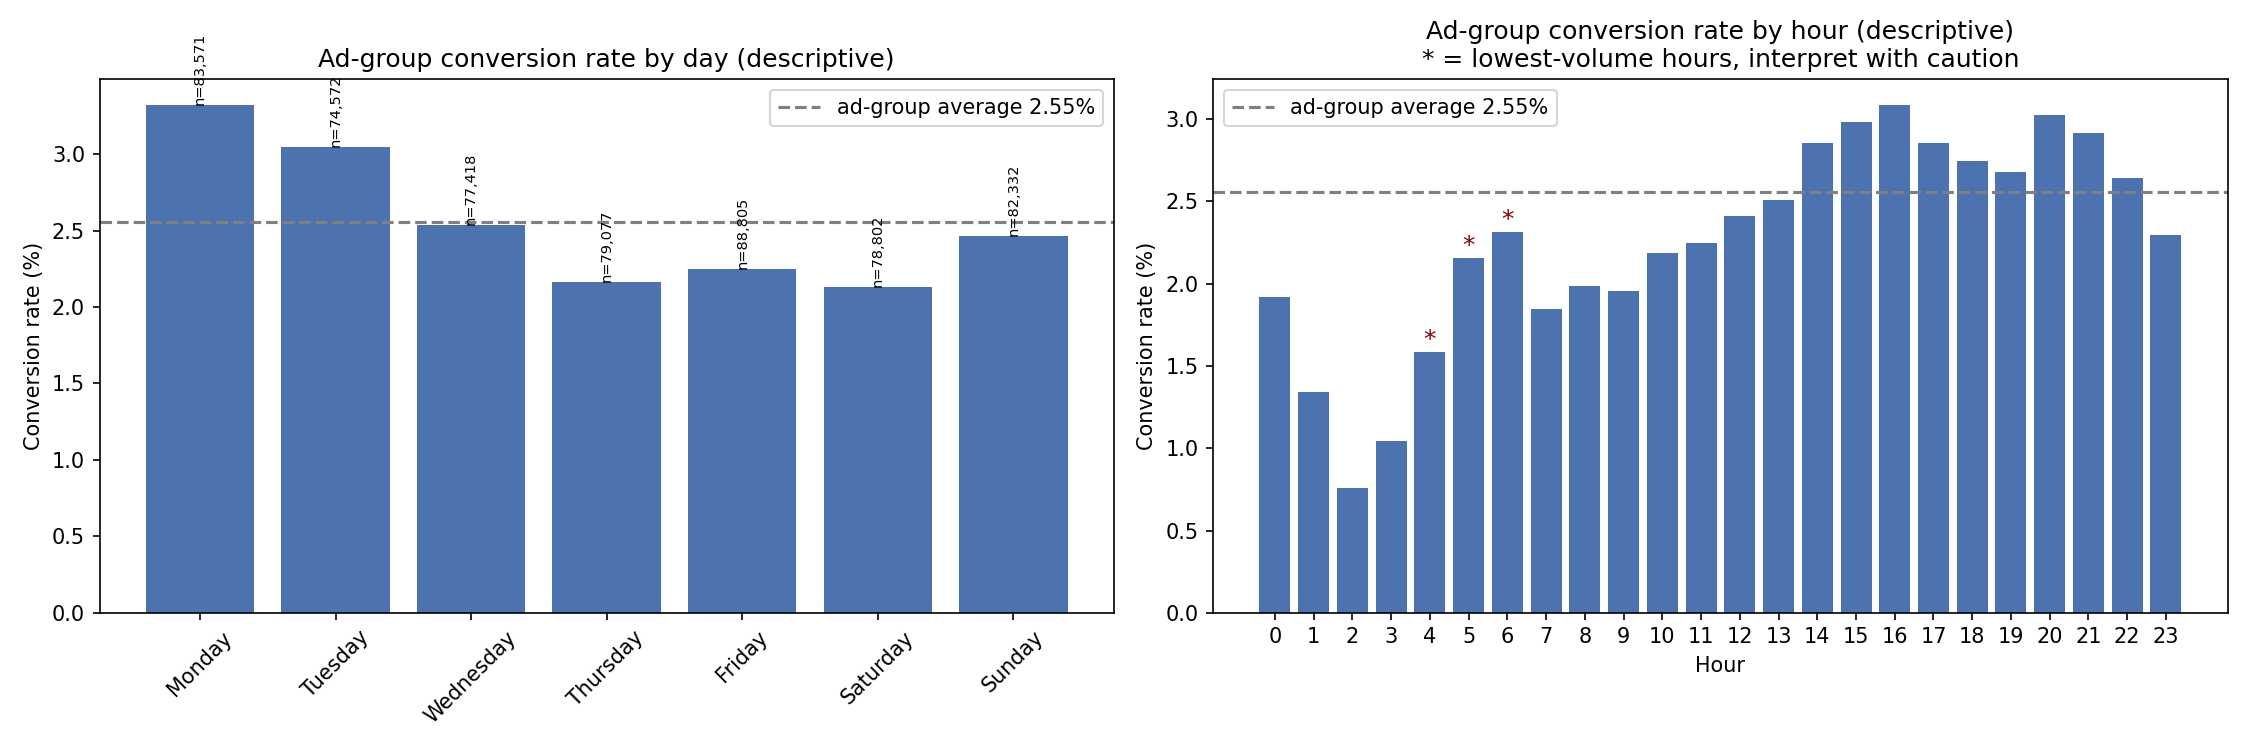
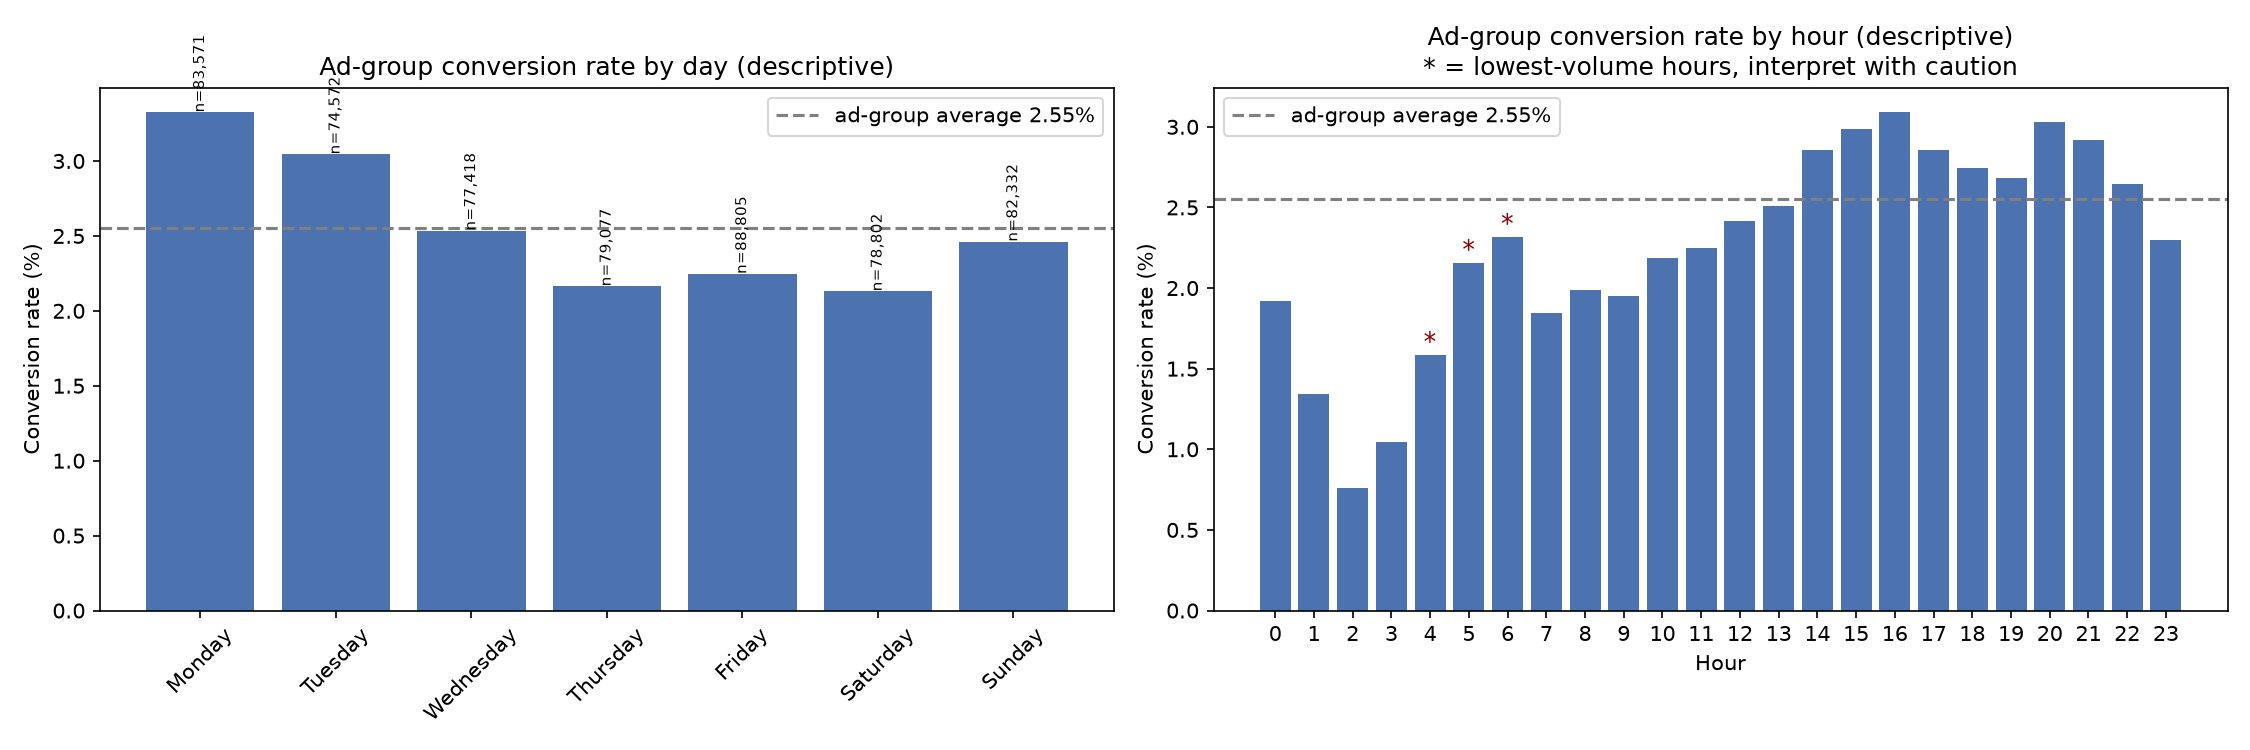
analysis: bootstrap the standardized CI, write figures where the report reads them
The analytic SE conditions on the observed PSA day x hour weights as fixed,
though they are estimated from 23,524 users across 168 cells. A 10,000-replicate
bootstrap that resamples them gives [0.5991, 0.9495] pp against the analytic
[0.6023, 0.9510] pp. The analytic interval stays primary, since the 0.003 pp
difference at the lower bound changes no ROI cell's sign, but the assumption is
now stated in the report, the log, and the notebook rather than left implicit.

Figures now save to reports/figures/ instead of the ignored outputs/, so the
committed images are produced by the committed pipeline rather than copied by
hand. The outputs/ directory and its ignore rule go with it.

diff --git a/reports/analysis_log.md b/reports/analysis_log.md
@@ -31,6 +31,15 @@ topline lift (0.7692 pp) — the opposite of what was expected going in.
 users per arm for a 0.50 pp MDE was corrected to the actual formal calculation:
 17,083 per arm (34,167 total, power 0.80, alpha 0.05, two-sided).
 
+**Standardized CI initially assumed the reference weights were fixed.** The
+analytic SE for the standardized lift summed weighted cell-level binomial
+variance plus the PSA rate variance, which conditions on the PSA day x hour
+weights as known. They are estimated from 23,524 users over 168 cells. A
+10,000-replicate bootstrap that resamples the weights gives [0.5991, 0.9495] pp
+against the analytic [0.6023, 0.9510] pp. The analytic interval was kept as
+primary — the gap is 0.003 pp at the lower bound and changes no ROI cell's sign —
+and the assumption is now stated rather than left implicit.
+
 **Thin-cell flag was insufficient for segment ranking.** The `thin` flag was
 defined against PSA reference weight during the standardization diagnostics, then
 reused for ad-group segment ranking. It does not transfer: Saturday 06:00
@@ -54,6 +63,7 @@ highest-weight cells (a 4.2x larger shift) separated the two.
 | "The PSA group is only 4% of the sample, is it stable?" | CI width 0.338 pp against a 0.769 pp gap. Stable enough for this comparison, though far less precise. |
 | "p = 4.85e-48 on day looks alarming." | Cramer's V is 0.0200. The association is negligible in magnitude and detectable only because of sample size. |
 | "Missing PSA rows in some hours?" | Zero hours lack PSA rows. Share ratio ranges 0.744 to 1.145 with no value near zero. |
+| "Does the standardized CI account for uncertainty in the reference weights?" | No — the analytic SE treats them as fixed. The bootstrap that resamples them is reported alongside: [0.5991, 0.9495] pp against [0.6023, 0.9510] pp. |
 | "43% relative lift seems too large." | Stated as a reason for scepticism rather than celebration, and the reason the cost scenario was run at all. |
 | "Best-performing slot is 5.68%, why not target it?" | That cell holds 5 conversions from 88 impressions. Rankings are filtered to n >= 500. |
 

diff --git a/reports/report.md b/reports/report.md
@@ -148,6 +148,7 @@ distribution was reweighted to the PSA group's via direct standardization.
 | Leave-one-out, 28 thin cells only        | max swing 0.00279 pp                          |
 | Excluding all thin cells (1.067% weight) | 0.7934 pp                                     |
 | Excluding 28 highest-weight cells        | 0.7066 pp                                     |
+| Bootstrap CI, reference weights resampled | [0.5991, 0.9495] pp vs analytic [0.6023, 0.9510] |
 
 The all-cell leave-one-out swing exceeds the standardization change itself, so it
 required explanation rather than reporting alone. Restricting the test to thin
@@ -157,6 +158,14 @@ highest-weight cells (a 4.2x larger shift) separated the two.
 Every specification lands between 0.7066 pp and 0.7934 pp, all inside the primary
 confidence interval and all far from zero. Standardized relative lift: 43.50%,
 consistent with the raw result (43.09%).
+
+The reported interval comes from an analytic SE that conditions on the observed
+PSA weights as fixed. Those weights are themselves estimated, from 23,524 users
+across 168 cells. A 10,000-replicate bootstrap that resamples them gives
+[0.5991, 0.9495] pp, wider by 0.003 pp at the lower bound. The analytic interval
+is kept as primary because the difference does not reach any decision threshold
+in this report, and the bootstrap is reported so the assumption is visible rather
+than implicit.
 
 ### Randomization diagnostics
 
@@ -217,6 +226,9 @@ The unfiltered top cell (Saturday 05:00, 5.68%) rests on 5 conversions from 88 i
 - **Design imbalance of 96% ads to 4% PSA.** The PSA estimate remains usable —
   its CI width of 0.338 pp is well below the 0.769 pp gap — but is far less
   precise.
+- **The confidence interval on the standardized lift treats the reference
+  weights as fixed.** Resampling them moves the lower bound by 0.003 pp. No
+  conclusion here turns on that margin.
 - **Small-cell caution.** The unfiltered top-performing cell was Saturday 05:00
   at 5.68%, resting on 5 conversions from 88 impressions. Rankings use an
   n >= 500 filter.

diff --git a/README.md b/README.md
@@ -59,7 +59,7 @@ Decision-by-decision rationale and corrections made mid-analysis: **[`reports/an
 
 1. Clone the repo, create a virtual environment, then `pip install -r requirements.txt`.
 2. Download `marketing_AB.csv` from the Kaggle link above into `data/raw/`.
-3. Run the notebooks in `notebooks/` in order: `01_schema_check.ipynb`, then `02_phase2_hypothesis_test.ipynb`. `02` reproduces the test behind the [Headline result](#headline-result) above and the full statistical results in `reports/report.md`.
+3. Run the notebooks in `notebooks/` in order: `01_schema_check.ipynb`, then `02_phase2_hypothesis_test.ipynb`. `02` reproduces the test behind the [Headline result](#headline-result) above and the full statistical results in `reports/report.md`. Running `02` regenerates the figures in `reports/figures/` in place.
 
 ## Tools
 
